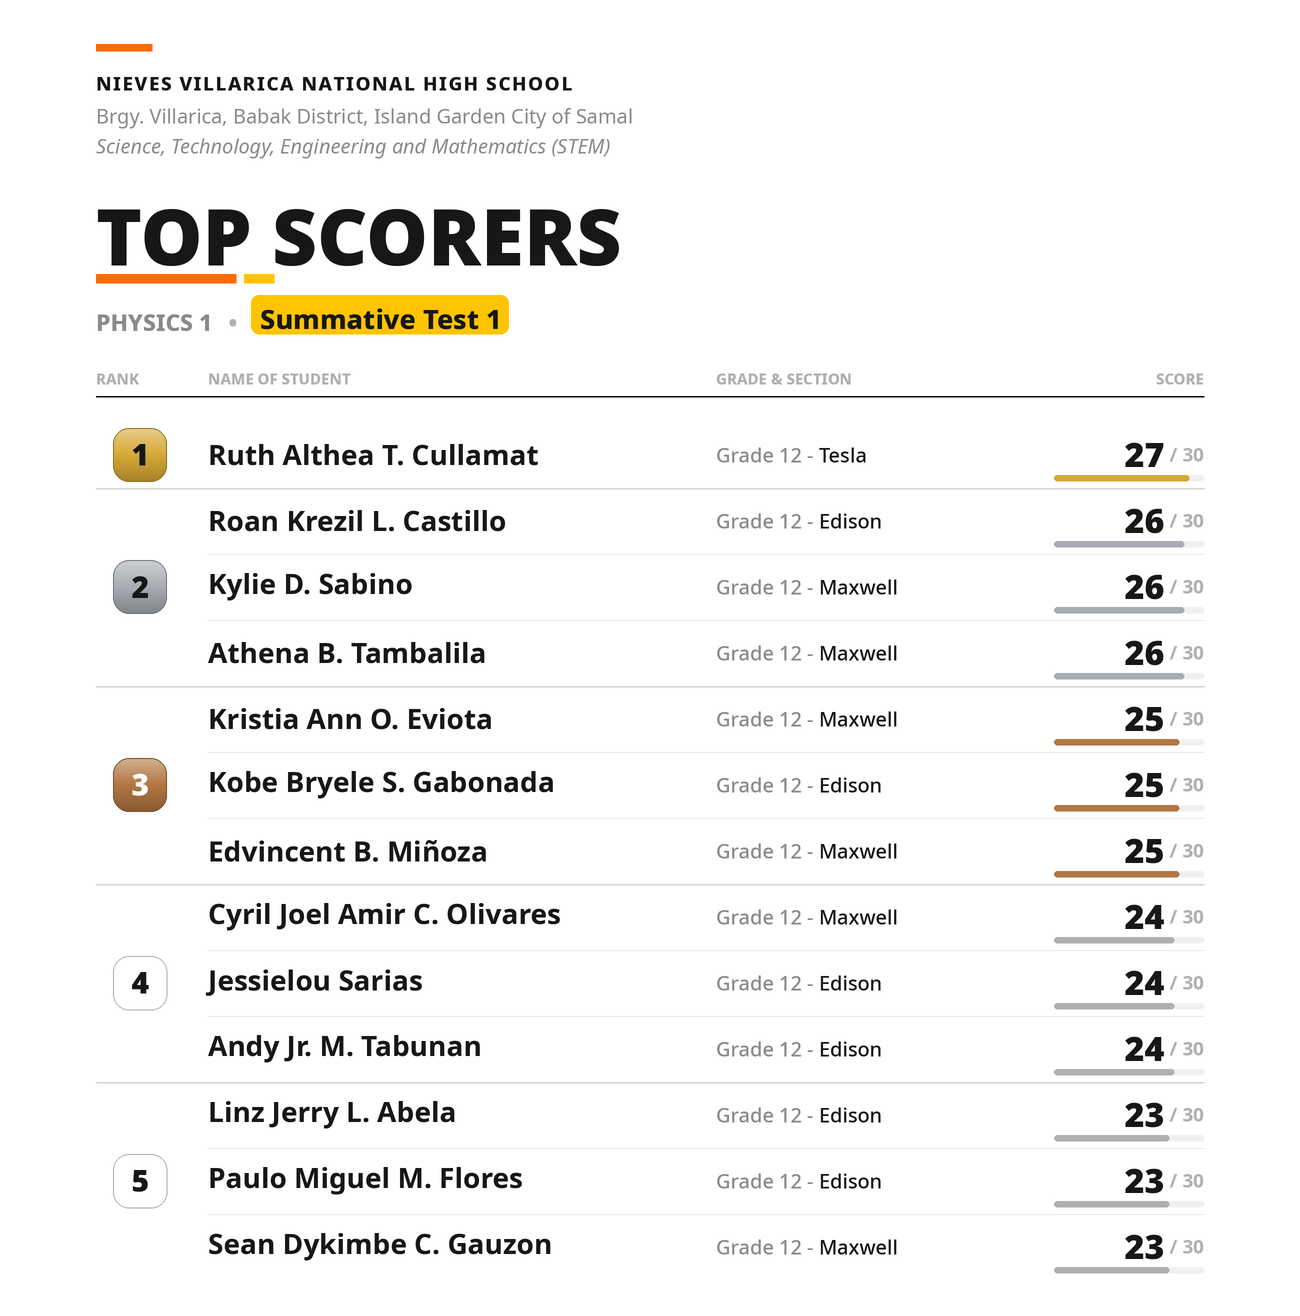
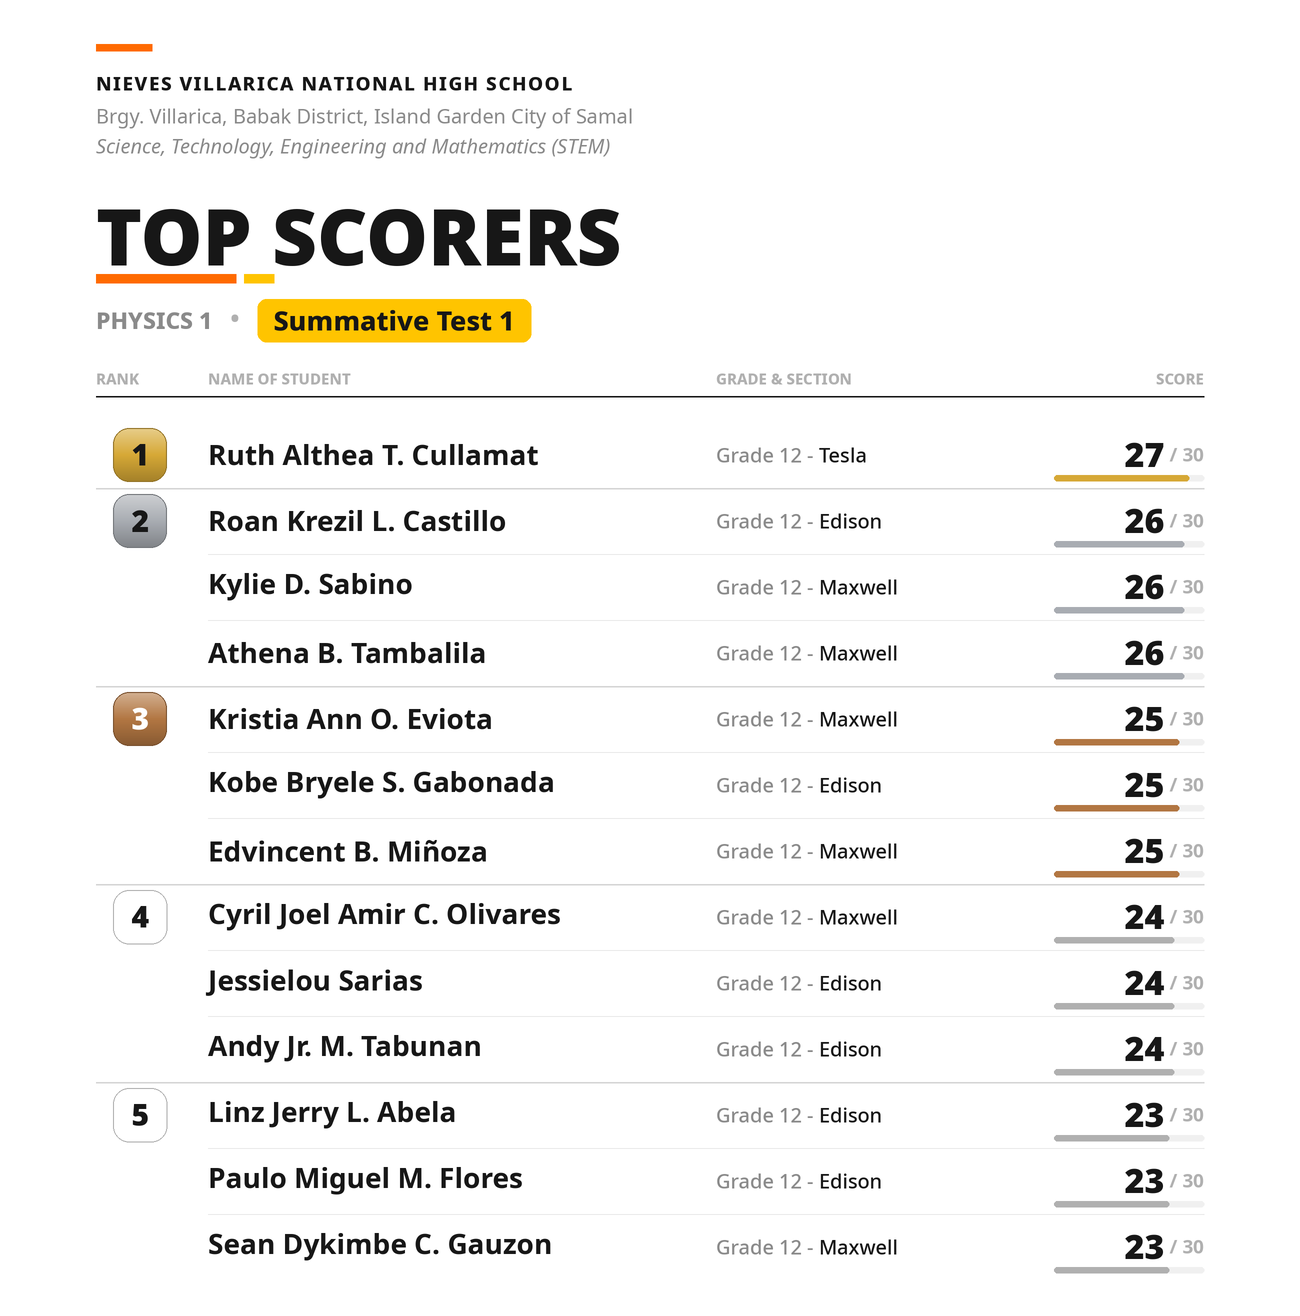
Align rank badge to first student of each rank; center Summative Test 1 highlight

diff --git a/make_topscorers.py b/make_topscorers.py
@@ -158,20 +158,25 @@ d.rectangle([x + s(148), tl_bottom, x + s(178), tl_bottom + s(9)], fill=YELLOW)
 
 # subtitle: PHYSICS 1  ·  [ Summative Test 1 ]  (test emphasized w/ highlight)
 sy = tl_bottom + s(30)
-d.text((x, sy + s(2)), "PHYSICS 1", font=f_sub_b, fill=GRAY)
-p1w = d.textlength("PHYSICS 1", font=f_sub_b)
-cur = x + p1w + s(16)
-# separator dot
-d.text((cur, sy + s(2)), "\u2022", font=f_sub_b, fill=GRAY_SOFT)
-cur += d.textlength("\u2022", font=f_sub_b) + s(16)
-# highlighted "Summative Test 1"
+d.text((x, sy), "PHYSICS 1", font=f_sub_b, fill=GRAY)
+pb = d.textbbox((0, 0), "PHYSICS 1", font=f_sub_b)
+line_mid = sy + (pb[1] + pb[3]) / 2.0            # vertical center of subtitle line
+cur = x + (pb[2] - pb[0]) + s(18)
+# separator dot, centered on the line
+dot = "\u2022"
+db = d.textbbox((0, 0), dot, font=f_sub_b)
+d.text((cur, line_mid - (db[1] + db[3]) / 2.0), dot, font=f_sub_b, fill=GRAY_SOFT)
+cur += (db[2] - db[0]) + s(18)
+# highlighted "Summative Test 1" — box symmetric around the glyph box
 tb = d.textbbox((0, 0), "Summative Test 1", font=f_test)
 tw, th = tb[2] - tb[0], tb[3] - tb[1]
-pad_x, pad_y = s(14), s(9)
-hl0 = (cur - s(2), sy - pad_y)
-hl1 = (cur + tw + pad_x, sy + th + pad_y)
-rrect(d, [hl0[0], hl0[1], hl1[0], hl1[1]], r=s(8), fill=YELLOW)
-d.text((cur + pad_x / 2 - tb[0], sy - tb[1] + pad_y / 2 - s(0)),
+pad_x, pad_y = s(16), s(11)
+box_l = cur
+box_t = line_mid - th / 2.0 - pad_y
+box_r = cur + tw + 2 * pad_x
+box_b = line_mid + th / 2.0 + pad_y
+rrect(d, [box_l, box_t, box_r, box_b], r=s(9), fill=YELLOW)
+d.text((box_l + pad_x - tb[0], line_mid - (tb[1] + tb[3]) / 2.0),
        "Summative Test 1", font=f_test, fill=INK)
 
 # ---------------------------------------------------------------- column anchors (dynamic)
@@ -216,21 +221,21 @@ for gi, (rank, students) in enumerate(GROUPS):
     grp_h = len(students) * row_h
     col = tier(rank)
 
-    # rank badge, centered on the group's vertical mid-line
-    grp_mid = grp_top + grp_h / 2.0
+    # rank badge, aligned to the FIRST student's row of this rank
+    first_cy = grp_top + row_h / 2.0
     bx0 = LM + 44 - BADGE / 2.0
-    by0 = grp_mid - BADGE / 2.0
+    by0 = first_cy - BADGE / 2.0
     if rank in MEDAL:
         medal_badge(int(round(bx0)), int(round(by0)), BADGE, MEDAL[rank])
         num_fill = medal_text(rank)
     else:
         outline_badge(int(round(bx0)), int(round(by0)), BADGE)
         num_fill = INK
-    # rank number centered on grp_mid -> aligns with the middle student's name
+    # rank number centered on the first student's row
     num = str(rank)
     nb = d.textbbox((0, 0), num, font=f_badge)
     d.text((s(LM + 44) - (nb[0] + nb[2]) / 2.0,
-            s(grp_mid) - (nb[1] + nb[3]) / 2.0),
+            s(first_cy) - (nb[1] + nb[3]) / 2.0),
            num, font=f_badge, fill=num_fill)
 
     for si, (name, section, score) in enumerate(students):
